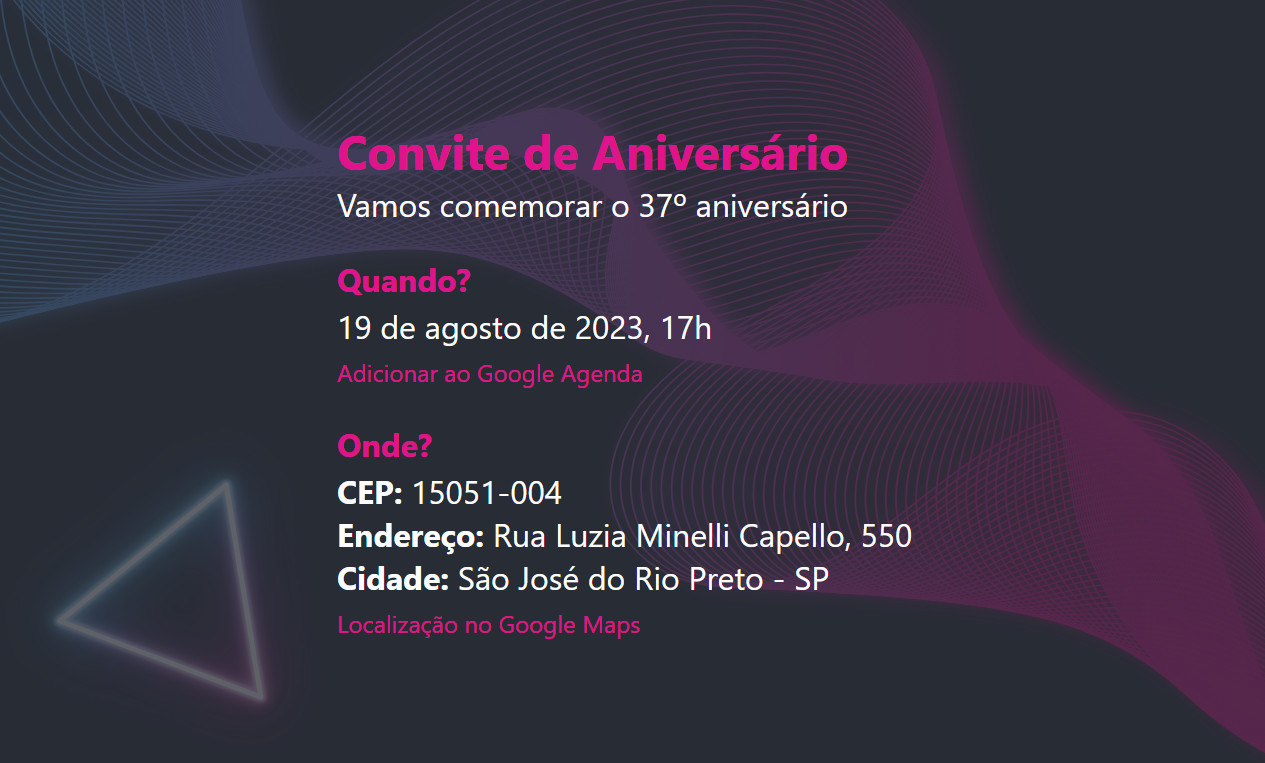
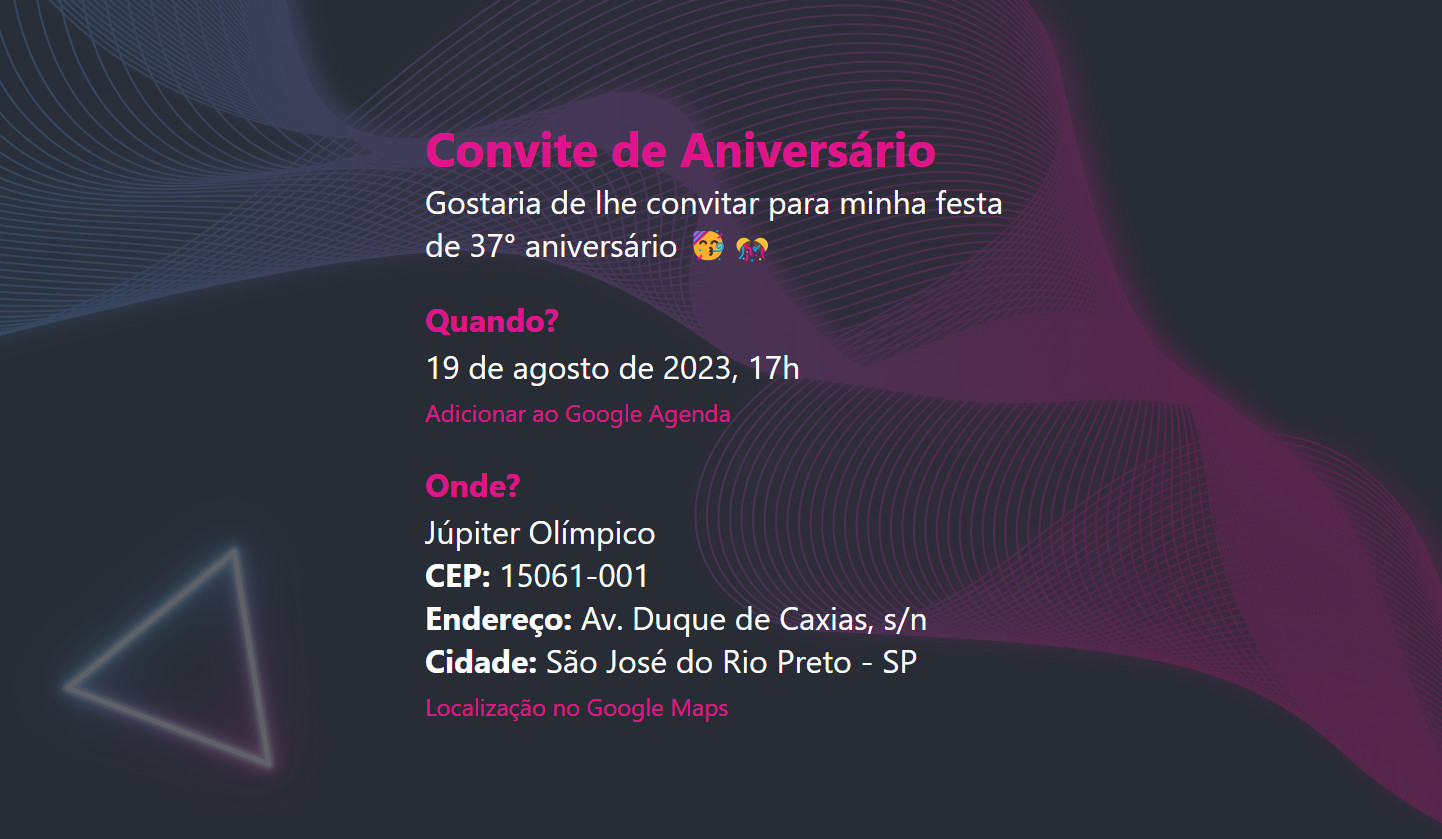
feat: publicação do convite de aniversário em projetos

diff --git a/static/niver/index.html b/static/niver/index.html
@@ -1,7 +1,6 @@
-<!DOCTYPE html>
+<!doctype html>
 <html lang="pt-br">
-
-<head>
+  <head>
     <meta charset="UTF-8" />
     <meta name="robots" content="index, follow" />
     <meta name="viewport" content="width=device-width, initial-scale=1.0" />
@@ -9,137 +8,168 @@
     <meta name="theme-color" content="#e0138c" />
 
     <title>Aniversário | Johny W. Alves</title>
-    <meta name="title" property="og:title" content="Aniversário | Johny W. Alves" />
-    <meta name="description" property="og:description" content="Gostaria de lhe convitar para minha festa de 37° aniversário" />
-    <meta name="image" property="og:image" itemprop="image" content="https://johnywalves.com.br/niver/thumbnail.jpg" />
+    <meta
+      name="title"
+      property="og:title"
+      content="Aniversário | Johny W. Alves"
+    />
+    <meta
+      name="description"
+      property="og:description"
+      content="Gostaria de lhe convitar para minha festa de 37° aniversário"
+    />
+    <meta
+      name="image"
+      property="og:image"
+      itemprop="image"
+      content="https://johnywalves.com.br/niver/thumbnail.jpg"
+    />
     <meta name="type" property="og:type" content="website" />
-    <meta name="url" property="og:url" content="https://johnywalves.com.br/niver/thumbnail.jpg" />
-    <meta name="site_name" property="og:site_name" content="Aniversário | Johny W. Alves" />
+    <meta
+      name="url"
+      property="og:url"
+      content="https://johnywalves.com.br/niver/thumbnail.jpg"
+    />
+    <meta
+      name="site_name"
+      property="og:site_name"
+      content="Aniversário | Johny W. Alves"
+    />
     <meta name="locale" property="og:locale" content="pt_BR" />
 
     <meta name="twitter:card" content="summary_large_image" />
     <meta name="twitter:url" content="https://johnywalves.com.br/niver" />
     <meta name="twitter:title" content="Aniversário | Johny W. Alves" />
-    <meta name="twitter:description" content="Gostaria de lhe convitar para minha festa de 37° aniversário" />
-    <meta name="twitter:image" content="https://johnywalves.com.br/niver/thumbnail.jpg" />
+    <meta
+      name="twitter:description"
+      content="Gostaria de lhe convitar para minha festa de 37° aniversário"
+    />
+    <meta
+      name="twitter:image"
+      content="https://johnywalves.com.br/niver/thumbnail.jpg"
+    />
 
-    <link rel="icon" href="https://johnywalves.com.br/niver/favicon.png" type="image/png" />
+    <link
+      rel="icon"
+      href="https://johnywalves.com.br/niver/favicon.png"
+      type="image/png"
+    />
 
     <style>
-        /* Reset CSS */
-        *,
-        *:before,
-        *:after {
-            margin: 0;
-            padding: 0;
-            outline: 0;
-            box-sizing: border-box;
-        }
+      /* Reset CSS */
+      *,
+      *:before,
+      *:after {
+        margin: 0;
+        padding: 0;
+        outline: 0;
+        box-sizing: border-box;
+      }
 
-        html {
-            --14px: 0.875rem;
-            --16px: 1rem;
-            --18px: 1.125rem;
-            --21px: 1.3125rem;
-            --24px: 1.5rem;
-            font-family: -apple-system, BlinkMacSystemFont, "Segoe UI", Roboto,
-                Oxygen, Ubuntu, Cantarell, "Open Sans", "Helvetica Neue", sans-serif;
-        }
+      html {
+        --14px: 0.875rem;
+        --16px: 1rem;
+        --18px: 1.125rem;
+        --21px: 1.3125rem;
+        --24px: 1.5rem;
+        font-family: -apple-system, BlinkMacSystemFont, "Segoe UI", Roboto,
+          Oxygen, Ubuntu, Cantarell, "Open Sans", "Helvetica Neue", sans-serif;
+      }
 
-        ol,
-        ul {
-            list-style: none;
-        }
+      ol,
+      ul {
+        list-style: none;
+      }
 
-        /* Content CSS */
-        :root {
-            --color-background: #282c35;
-            --color-header: #e0138c;
-            --color-text: #fdfdfd;
-        }
+      /* Content CSS */
+      :root {
+        --color-background: #282c35;
+        --color-header: #e0138c;
+        --color-text: #fdfdfd;
+      }
 
-        body {
-            background-color: var(--color-background);
-            background-image: url('./waves.svg'), url('./triangle-neon-right.svg');
-            background-position: bottom center, bottom left;
-            background-repeat: no-repeat;
-            background-size: cover, auto;
+      body {
+        background-color: var(--color-background);
+        background-image: url("./waves.svg"), url("./triangle-neon-right.svg");
+        background-position:
+          bottom center,
+          bottom left;
+        background-repeat: no-repeat;
+        background-size: cover, auto;
 
-            color: var(--color-text);
-            min-height: 100vh;
+        color: var(--color-text);
+        min-height: 100vh;
 
-            display: flex;
-            flex-direction: column;
-            align-items: center;
-            justify-content: center;
-            font-size: 2rem;
-        }
+        display: flex;
+        flex-direction: column;
+        align-items: center;
+        justify-content: center;
+        font-size: 2rem;
+      }
 
-        h1,
-        h2 {
-            color: var(--color-header);
-        }
+      h1,
+      h2 {
+        color: var(--color-header);
+      }
 
-        h1 {
-            font-size: 3rem;
-        }
+      h1 {
+        font-size: 3rem;
+      }
 
-        h2 {
-            font-size: 2rem;
-            margin: 1rem 0 0.25rem;
-        }
+      h2 {
+        font-size: 2rem;
+        margin: 1rem 0 0.25rem;
+      }
 
-        a,
-        a:hover,
-        a:visited {
-            text-decoration: none;
-            color: var(--color-header);
-            font-size: 1.5rem;
-        }
+      a,
+      a:hover,
+      a:visited {
+        text-decoration: none;
+        color: var(--color-header);
+        font-size: 1.5rem;
+      }
 
-        a:hover {
-            text-decoration: underline;
-        }
+      a:hover {
+        text-decoration: underline;
+      }
 
-        p {
-            color: var(--color-text);
-        }
+      p {
+        color: var(--color-text);
+      }
 
-        section {
-            width: min(40rem, 100%);
-            padding: 0.5rem 1.5rem;
-            margin: 0 auto;
-        }
+      section {
+        width: min(40rem, 100%);
+        padding: 0.5rem 1.5rem;
+        margin: 0 auto;
+      }
     </style>
-</head>
+  </head>
 
-<body>
+  <body>
     <section>
-        <h1>Convite de Aniversário</h1>
-        <p>Gostaria de lhe convitar para minha festa de 37° aniversário 🥳🎊</p>
+      <h1>Convite de Aniversário</h1>
+      <p>Gostaria de lhe convitar para minha festa de 37° aniversário 🥳🎊</p>
     </section>
 
     <section>
-        <h2>Quando?</h2>
-        <p>19 de agosto de 2023, 17h</p>
-        <a href="https://calendar.google.com/calendar/event?action=TEMPLATE&amp;tmeid=MGs3b20zNXJkZDI1aGcya25qcjNjbXIxMHEgam9obnl3YWx2ZXNAbQ&amp;tmsrc=johnywalves%40gmail.com"
-            target="_blank">
-            Adicionar ao Google Agenda
-        </a>
+      <h2>Quando?</h2>
+      <p>19 de agosto de 2023, 17h</p>
+      <a href="https://calendar.app.google/wBMRUaehn5pTAMSw5" target="_blank">
+        Adicionar ao Google Agenda
+      </a>
     </section>
 
     <section>
-        <h2>Onde?</h2>
-        </p>Salão de festa do Condomínio Rio Prado</p>
-        <p><strong>CEP:</strong> 15051-004</p>
-        <p><strong>Endereço:</strong> Rua Luzia Minelli Capello, 550</p>
-        <p><strong>Cidade:</strong> São José do Rio Preto - SP</p>
-        <a href="https://goo.gl/maps/Y2Jh15YjUtZrsAc29" target="_blank">
-            Localização no Google Maps
-        </a>
+      <h2>Onde?</h2>
+      <p>Júpiter Olímpico</p>
+      <p><strong>CEP:</strong> 15061-001</p>
+      <p><strong>Endereço:</strong> Av. Duque de Caxias, s/n</p>
+      <p><strong>Cidade:</strong> São José do Rio Preto - SP</p>
+      <a href="https://maps.app.goo.gl/vGNxLhS2W321ZSwP7" target="_blank">
+        Localização no Google Maps
+      </a>
     </section>
-</body>
+  </body>
 
-<script type="text/javascript"></script>
-
+  <script type="text/javascript"></script>
 </html>
